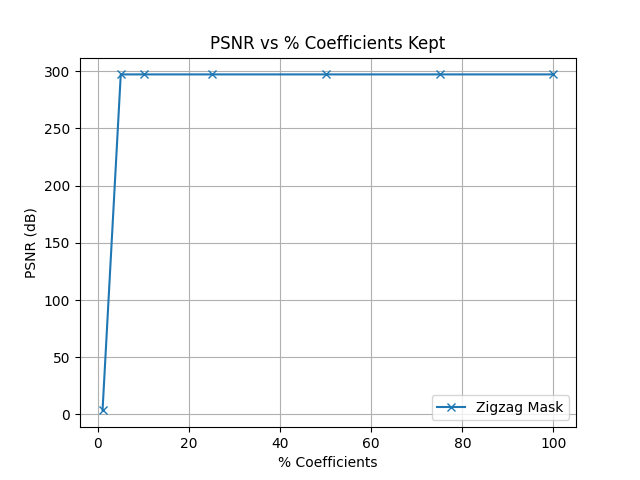
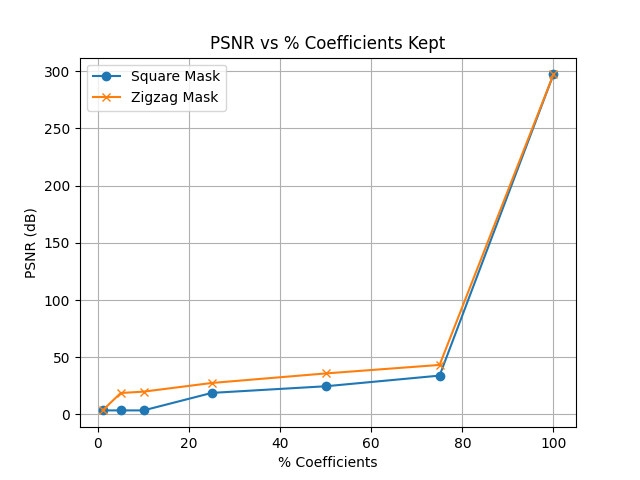
fixed psnr and ssim comparisons

diff --git a/generate_plots.py b/generate_plots.py
@@ -294,6 +294,68 @@ def plot_compression_curve_and_examples(image_path, percentages=[1, 5, 10, 25, 5
     plt.savefig("plots/ssim_comparison.png")
     plt.close()
 
+def plot_compression_curve(image_path):
+    block_size = 8
+    img = normalize_image(load_grayscale_image(image_path))
+    blocks, shape = split_into_blocks(img, block_size)
+    dct_blocks = np.zeros_like(blocks, dtype=np.float64)
+    for i in range(blocks.shape[0]):
+        for j in range(blocks.shape[1]):
+            dct_blocks[i, j] = dct2(blocks[i, j])
+
+    percentages = [1, 5, 10, 25, 50, 75, 100]
+    psnrs_square = []
+    psnrs_zigzag = []
+    ssims_square = []
+    ssims_zigzag = []
+
+    for pct in percentages:
+        p = pct / 100.0
+
+        masked_sq = np.zeros_like(dct_blocks)
+        masked_zz = np.zeros_like(dct_blocks)
+
+        for i in range(dct_blocks.shape[0]):
+            for j in range(dct_blocks.shape[1]):
+                masked_sq[i, j] = mask_dct_coefficients(dct_blocks[i, j], int(block_size * p))
+                masked_zz[i, j] = zigzag_mask_dct(dct_blocks[i, j], p)
+
+        rec_sq = np.zeros_like(masked_sq)
+        rec_zz = np.zeros_like(masked_zz)
+        for i in range(masked_sq.shape[0]):
+            for j in range(masked_sq.shape[1]):
+                rec_sq[i, j] = idct2(masked_sq[i, j])
+                rec_zz[i, j] = idct2(masked_zz[i, j])
+
+        img_sq = combine_blocks(rec_sq, shape)
+        img_zz = combine_blocks(rec_zz, shape)
+
+        psnrs_square.append(compute_psnr(img, img_sq))
+        ssims_square.append(compute_ssim(img, img_sq))
+        psnrs_zigzag.append(compute_psnr(img, img_zz))
+        ssims_zigzag.append(compute_ssim(img, img_zz))
+
+    plt.figure()
+    plt.plot(percentages, psnrs_square, marker='o', label="Square Mask")
+    plt.plot(percentages, psnrs_zigzag, marker='x', label="Zigzag Mask")
+    plt.title("PSNR vs % Coefficients Kept")
+    plt.xlabel("% Coefficients")
+    plt.ylabel("PSNR (dB)")
+    plt.legend()
+    plt.grid(True)
+    plt.savefig("plots/psnr_comparison.png")
+    plt.close()
+
+    plt.figure()
+    plt.plot(percentages, ssims_square, marker='o', label="Square Mask")
+    plt.plot(percentages, ssims_zigzag, marker='x', label="Zigzag Mask")
+    plt.title("SSIM vs % Coefficients Kept")
+    plt.xlabel("% Coefficients")
+    plt.ylabel("SSIM")
+    plt.legend()
+    plt.grid(True)
+    plt.savefig("plots/ssim_comparison.png")
+    plt.close()
 
 
 # === CUMULATIVE ENERGY PLOT ===
@@ -339,10 +401,10 @@ if __name__ == "__main__":
     #     plot_image_reconstruction(path, color=True)
     # plot_image_reconstruction("data/nasir_ahmed.png", color=False)
     # plot_image_reconstruction("data/mary.jpg", color=True)
-    plot_runtime_comparison({
-        "Naive DCT": dct2,
-        "Fast DCT (Lee)": dct_lee_2d
-    })
-    # plot_compression_curve_and_examples("data/nasir_ahmed.png")
+    # plot_runtime_comparison({
+    #     "Naive DCT": dct2,
+    #     "Fast DCT (Lee)": dct_lee_2d
+    # })
+    plot_compression_curve("data/nasir_ahmed.png")
 
     print("Plots generated in /plots")
